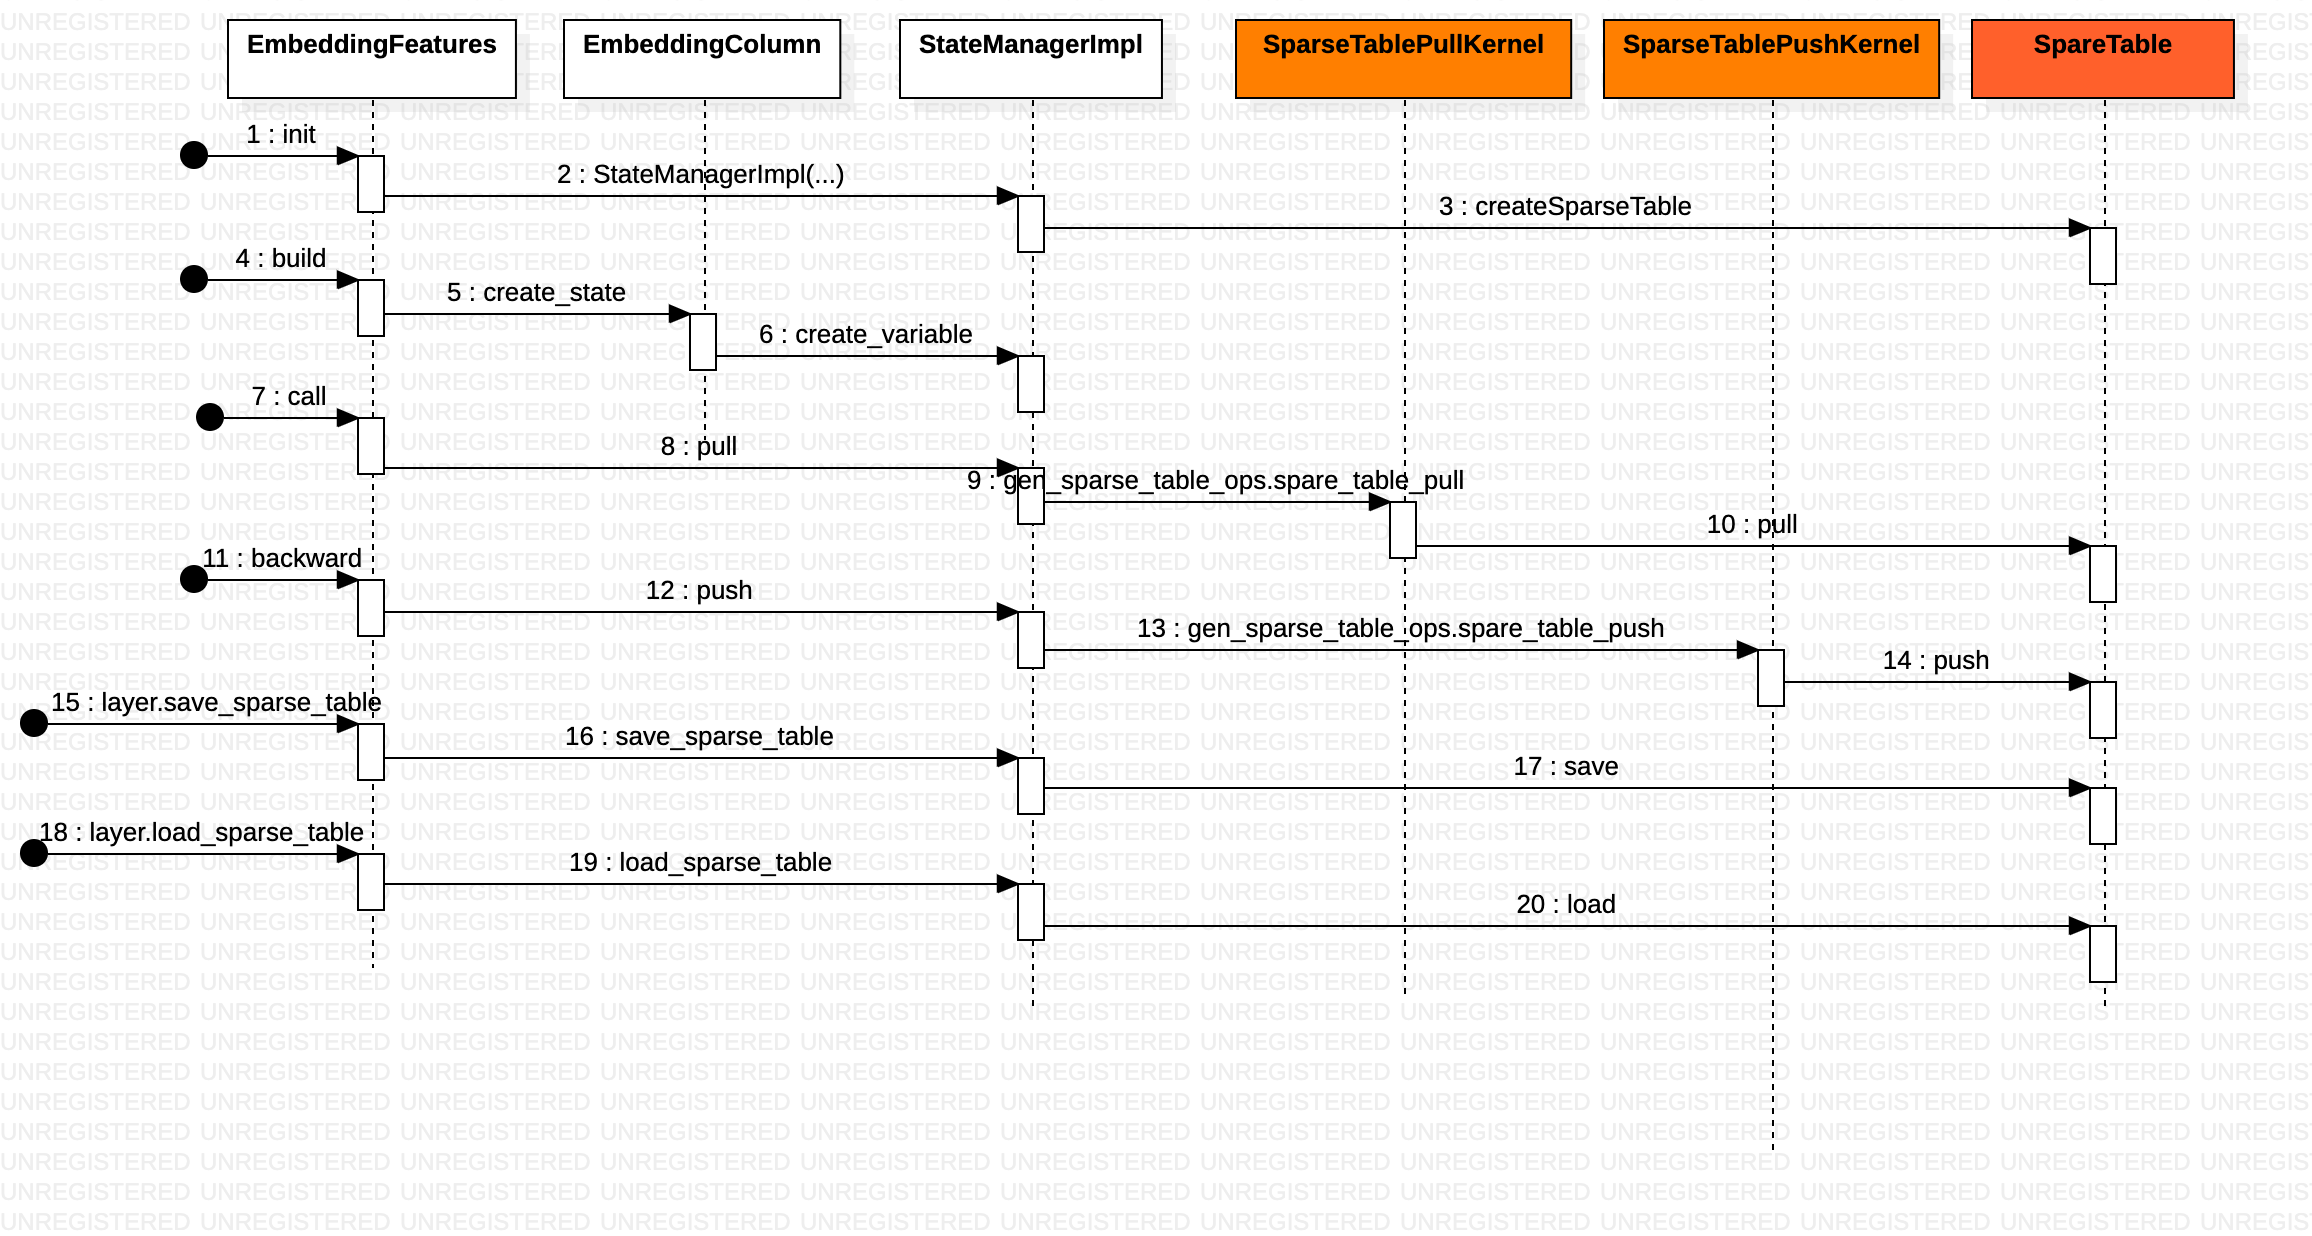
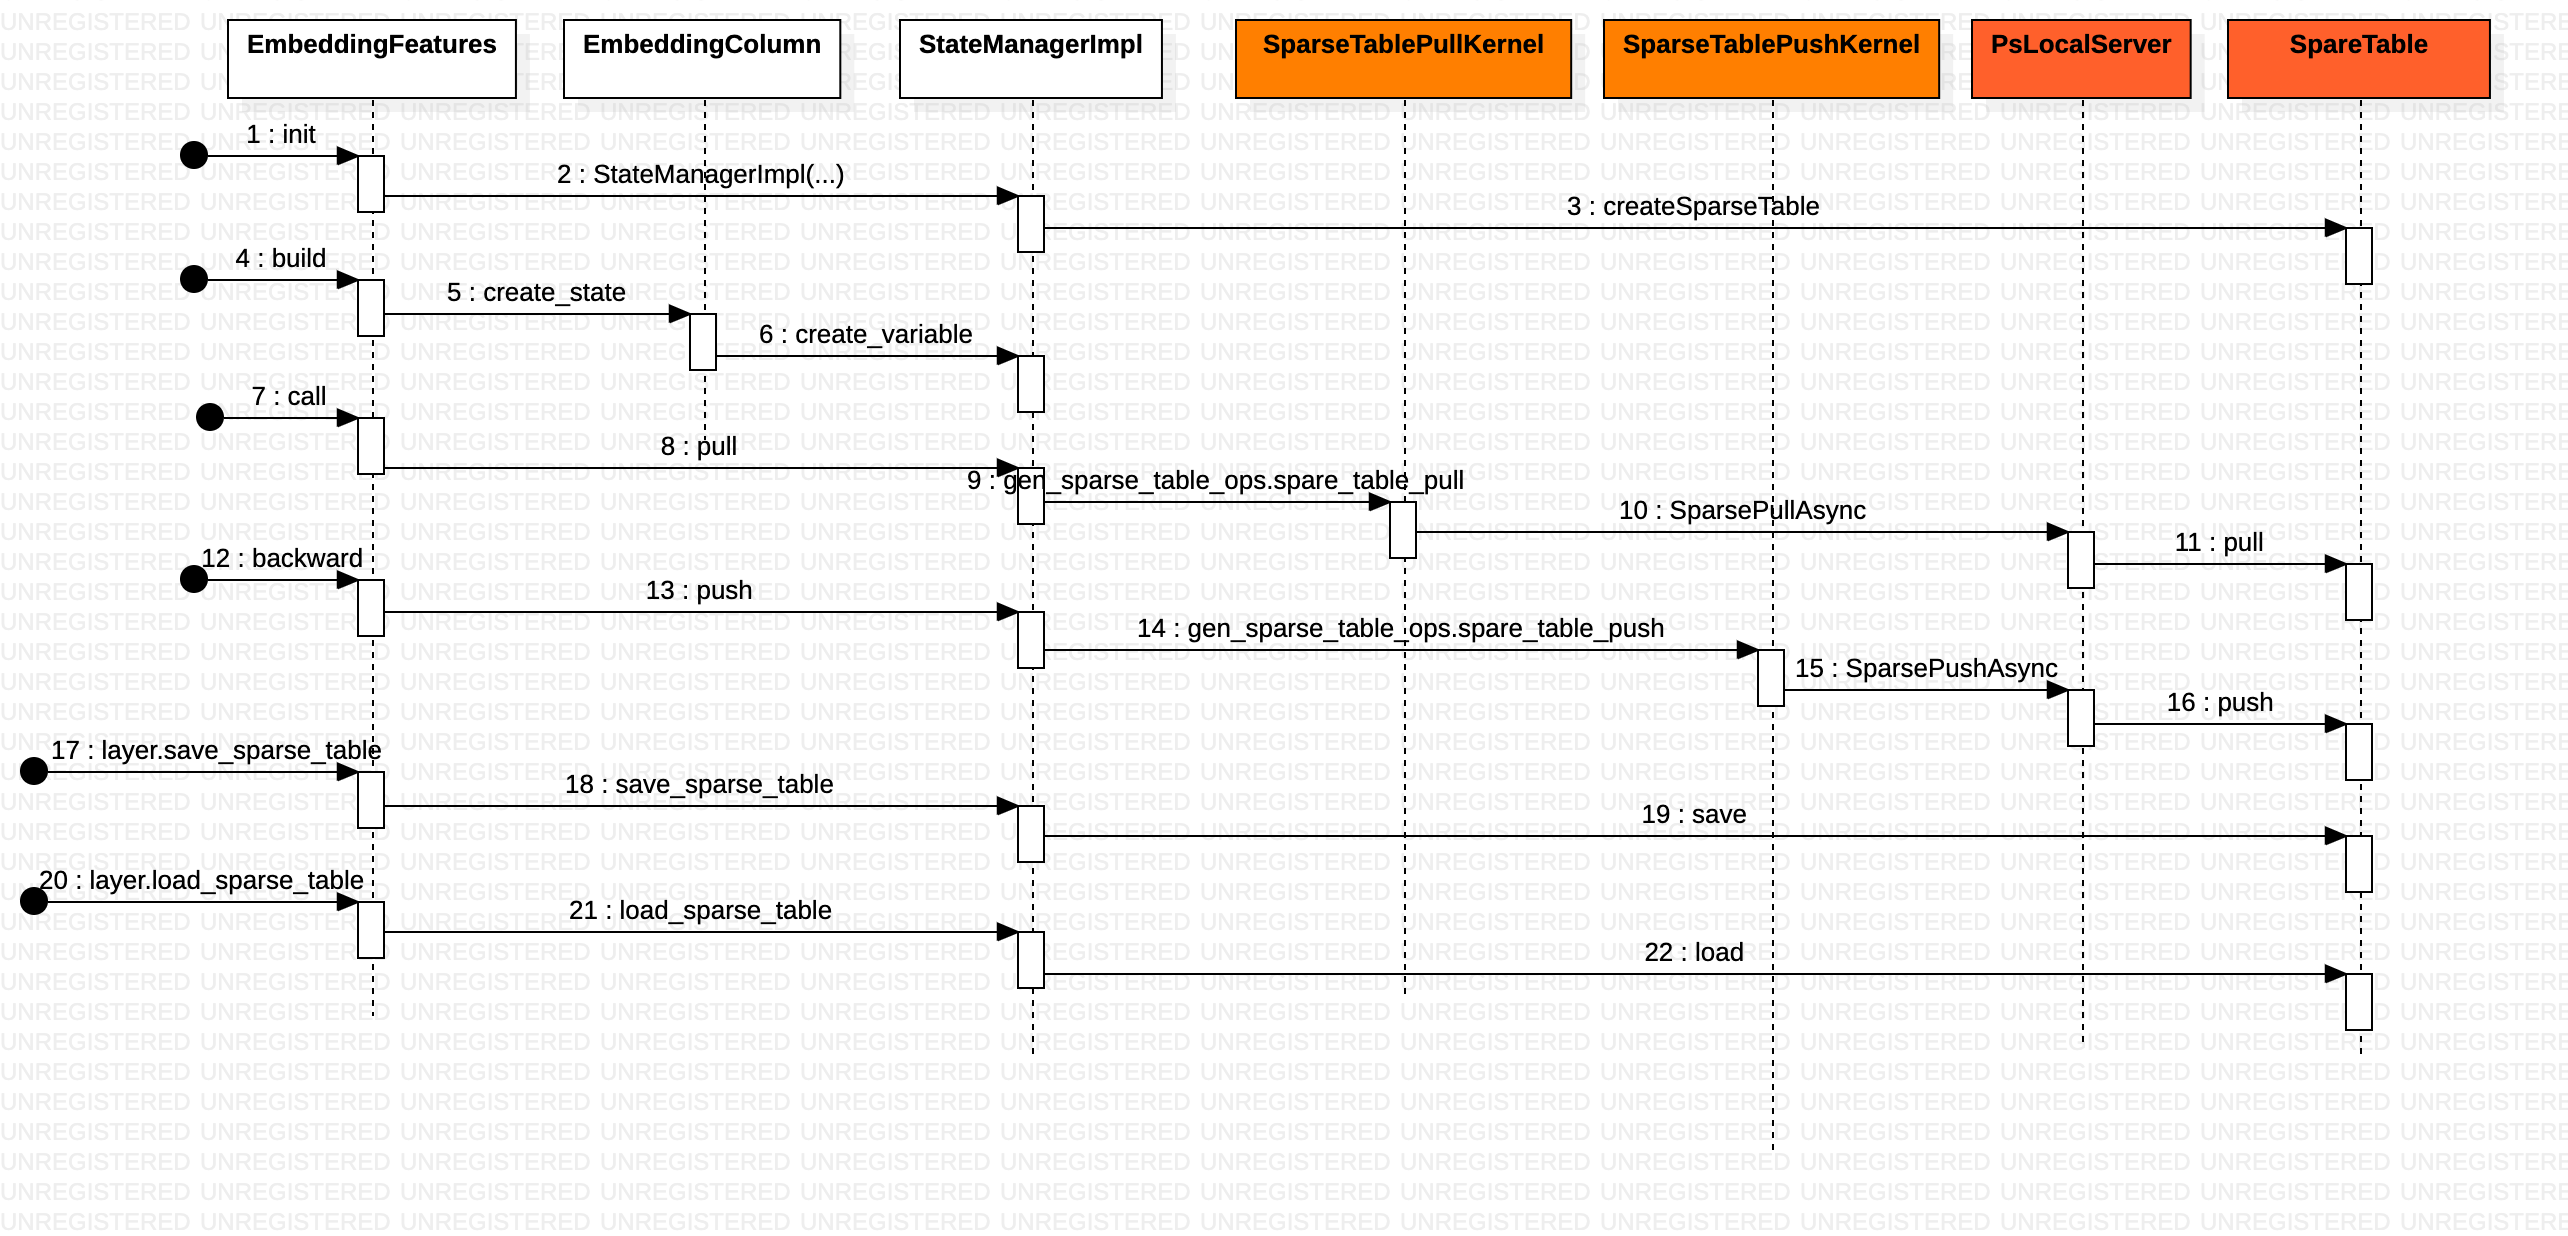
add doc

diff --git a/_posts/MachineLearning/2022-02-22-tensornet_source.md b/_posts/MachineLearning/2022-02-22-tensornet_source.md
@@ -24,6 +24,7 @@ keywords: tensornet
 2. 一种调用 自定义算子，由session.run 真正触发执行。 
 
 所以机器学习框架的执行，从编程语言角度看
+
 ![](/public/upload/machine/tensornet_python_c.png)
 ## Wide&Deep模型Demo
 
@@ -121,6 +122,14 @@ tensornet
         /kernels    // op kernel 实现
             /xx.cc
         /ops        // 为每个op kernel REGISTER_OP
+        /ps         // 从中可以观察一个ps 的构成
+            /optimizer          // 因为ps 是存储tf.Variable的，所以进行参数更新的优化器 自然也是 ps的一部分
+            /table              // 因为ps 是存储tf.Variable的，table 就是参数的存储结构，基于ml 特性优化的kv 存储
+            /ps_cluster.cc/ps_cluster.h
+            /ps_local_server.cc/ps_local_server.h
+            /ps_remote_server.cc/ps_remote_server.h
+            /ps_server_interface.h
+            /ps_service_impl.cc/ps_service_impl.h
         /BUILD      // 为每个op 生成so 及python wrapper
     tensornet       // python 部分
         /core       // op 对应的python wrapper，由 Bazel 生成
@@ -339,9 +348,11 @@ const PsServerInterface* PsCluster::GetServer(int shard_id) const {
 
 ### 底层存储
 
-SparseTable 底层 使用8个SparseKernelBlock，每个SparseKernelBlock 使用unordered_map 存储kv（ps就是一个kv嘛），key是id，value是一个封装的SparseXXValue结构体。
-1. SparseTable.Pull ==> SparseOptimizerKernel.GetWeight ==> SparseKernelBlock.GetWeight ==> SparseAdaGradValue.Weight
-2. SparseTable.Push ==> SparseOptimizerKernel.Apply ==> SparseKernelBlock.Apply ==> SparseAdaGradValue.Apply
+SparseTable 底层 使用8个SparseKernelBlock，每个SparseKernelBlock 使用unordered_map 存储kv（ps就是一个kv嘛），key是id，value是一个封装`float*`的SparseXXValue结构体。SparseKernelBlock 操作有mutex 保护，所以 SparseTable 弄8个SparseKernelBlock 的原因估计是 降低锁竞争。 
+1. PsLocalServer.pull ==> SparseTable.Pull ==> SparseOptimizerKernel.GetWeight ==> SparseKernelBlock.GetWeight ==> SparseAdaGradValue.Weight
+2. PsLocalServer.push ==> SparseTable.Push ==> SparseOptimizerKernel.Apply ==> SparseKernelBlock.Apply ==> SparseAdaGradValue.Apply
+
+
 
 ```c++
 // tensornet/core/ps/optimizer/optimizer_kernel.h
@@ -407,6 +418,83 @@ void SparseAdaGradValue::Apply(const AdaGrad* opt, SparseGradInfo& grad_info, in
     }
 }
 ```
+
+![](/public/upload/machine/tensornet_ps.png)
+
+从大的方面来说，DenseTable与SparseTable 类似，也有DenseOptimizerKernel、DenseKernelBlock 等概念，实际差异 DenseXXValue 和 SparseXXValue 上体现出来。以Adam为例（未完成）
+
+1. TensorNet将模型的所有dense参数合并后使用分布式数组切分到不同的机器上，每次pull和push参数的时候只有一次网络请求。相较于TensorFlow对每个tensor都有一次网络请求的方法极大的减少了网络请求的次数从而提升了模型训练的速度。
+2. TensorNet对sparse参数使用分布式哈希表按照哈希值均匀分布不同的节点上。这相较于TensorFlow需要让开发者根据自身情况将tensor分布在不同的ps节点上的方法更加灵活，这不仅减小了节点通信热点的概率，还减轻了开发者的工作量。
+
+```c++
+// tensornet/core/ps/optimizer/adam_kernel.h
+class DenseAdamValue {
+public:
+    void SetWeight(butil::IOBuf& w_buf);
+    const Eigen::ArrayXf& GetWeight() const {
+        return w_;
+    }
+    // tensornet/core/ps/optimizer/adam_kernel.cc
+    void Apply(const Adam* opt, const Eigen::ArrayXf& g) {
+        beta1_power_ *= opt->beta1;
+        beta2_power_ *= opt->beta2;
+
+        const float alpha = opt->learning_rate * Eigen::numext::sqrt(1.0 - beta2_power_) / (1.0 - beta1_power_);
+
+        m_ += (g - m_) * (1.0 - opt->beta1);
+        v_ += (g.square() - v_) * (1.0 - opt->beta2);
+        w_ -= (m_ * alpha) / (v_.sqrt() + opt->epsilon);
+    }
+private:
+    float beta1_power_ = 0;
+    float beta2_power_ = 0;
+    // ArrayXf  即 Array<float,Dynamic,1>  对应 Array<typename Scalar, int RowsAtCompileTime, int ColsAtCompileTime>
+    // Array类提供了更方便的元素级的操作，可以通过matrix() 转为Matrix，这种转换并不耗费运行时间（编译器优化了)
+    Eigen::ArrayXf w_;
+    Eigen::ArrayXf m_;
+    Eigen::ArrayXf v_;
+}
+class alignas(4) SparseAdamValue
+    : public SparseOptValue {
+public:
+    float* Weight() {
+        return data_;
+    }
+    const float* Weight() const {
+        return data_;
+    }
+    // tensornet/core/ps/optimizer/adam_kernel.cc
+    void Apply(const Adam* opt, SparseGradInfo& grad_info, int dim) {
+        delta_show_ += grad_info.batch_show;
+        
+        float* w = Weight();
+        float* m = M(dim);
+        float* v = V(dim);
+
+        for (int i = 0; i < dim; ++i) {
+            m[i] = opt->beta1 * m[i] + (1 - opt->beta1) * grad_info.grad[i];
+            v[i] = opt->beta2 * v[i] + (1 - opt->beta2) * grad_info.grad[i] * grad_info.grad[i];
+
+            w[i] -= opt->learning_rate * m[i] / (opt->epsilon + sqrt(v[i]));
+        }
+    }
+protected:
+    float* M(int dim) {
+        return data_ + dim * 1;
+    }
+    float* V(int dim) {
+        return data_ + dim * 2;
+    }
+private:
+    float data_[0];
+};
+// tensornet/core/ps/optimizer/data_struct.h
+struct SparseGradInfo {
+    float* grad;
+    int batch_show;
+};
+```
+
 ## tn.optimizer.Optimizer是如何实现梯度参数更新和自身参数存储的
 
 对Optimizer 的使用，可以看到 optimizer 主要是为了更新dense参数(全连接网络的参数)
@@ -498,4 +586,3 @@ class Model(tf.keras.Model):
 
 Model.backwards ==> layer/EmbeddingFeatures.backwards ==> StateManagerImpl.push ==> gen_sparse_table_ops.spare_table_push就到了OP 的逻辑了。
 
-![](/public/upload/machine/tensornet_ps.png)

diff --git a/_posts/MachineLearning/2022-03-02-embedding.md b/_posts/MachineLearning/2022-03-02-embedding.md
@@ -41,6 +41,8 @@ Embedding这块，spark MLlib 和 机器学习库 都提供了处理函数。利
 
 **在自然语言中，非端到端很常见**，因为学到一个好的的词向量表示，就能很好地挖掘出词之间的潜在关系，那么在其他语料训练集和自然语言任务中，也能很好地表征这些词的内在联系，预训练的方式得到的Embedding并不会对最终的任务和模型造成太大影响，但却能够「提高效率节省时间」，这也是预训练的一大好处。但是**在推荐场景下，根据不同目标构造出的序列不同，那么训练得到的Embedding挖掘出的关联信息也不同**。所以，「在推荐中要想用预训练的方式，必须保证Embedding的预训练和最终任务目标处于同一意义空间」，否则就会造成预训练得到Embedding的意义和最终目标完全不一致。比如做召回阶段的深度模型的目标是衡量两个商品之间的相似性，但是CTR做的是预测用户点击商品的概率，初始化一个不相关的 Embedding 会给模型带来更大的负担，更慢地收敛。
 
+在梯度下降这块对embedding weight也有针对性的优化算法，[从梯度下降到FTRL](https://zhuanlan.zhihu.com/p/144562494)FTRL是在广告/推荐领域会用到的优化方法，适用于对高维稀疏模型进行训练，获取稀疏解。
+
 ## 实践
 
 《深度学习推荐系统实战》为什么深度学习的结构特点不利于稀疏特征向量的处理呢？一方面，如果我们深入到神经网络的梯度下降学习过程就会发现，特征过于稀疏会导致整个网络的收敛非常慢，因为每一个样本的学习只有极少数的权重会得到更新，这在样本数量有限的情况下会导致模型不收敛。另一个方面，One-hot 类稀疏特征的维度往往非常地大，可能会达到千万甚至亿的级别，如果直接连接进入深度学习网络，那整个模型的参数数量会非常庞大。因此，我们往往会先通过 Embedding 把原始稀疏特征稠密化，然后再输入复杂的深度学习网络进行训练，这相当于把原始特征向量跟上层复杂深度学习网络做一个隔离。

diff --git a/_posts/MachineLearning/2021-08-18-ai_platform.md b/_posts/MachineLearning/2021-08-18-ai_platform.md
@@ -92,7 +92,7 @@ AI平台的定位：面向算法工程师，围绕AI 模型的全生命周期去
 
 深度学习平台的搭建，将遇到诸多挑战，主要体现在以下方面：
 
-1. 数据管理自动化。在深度学习的业务场景中，从业人员会花费大量的时间获取和转换建立模型需要的数据。数据处理过程中还将产生新的数据，这些数据不单单应用于本次训练，很可能用于后续推理过程。并且新 生成的数据不需要传给数据源，而是希望放置在新的存储空间。这需要基础平台提供可扩展的存储系统。
+1. 数据管理自动化。在深度学习的业务场景中，从业人员会花费大量的时间获取和转换建立模型需要的数据。数据处理过程中还将产生新的数据，这些数据不单单应用于本次训练，很可能用于后续推理过程。并且新 生成的数据不需要传给数据源，而是希望放置在新的存储空间。这需要基础平台提供可扩展的存储系统。PS： 手动命令行、页面、代码上传、下载，pod 随时可以访问，分布式训练任务多pod 之间也要共享一些临时的存储文件。
 2. 资源的有效利用。深度学习相关的应用是资源密集型，资源使用波动大，存在峰值和谷值。在应用开始运行的时候，快速获取计算资源；在应用结束后，回收不适用的计算资源对于资源利用率的提升相当重要。数据处理、模型训练和推理所使用的计算资源类型和资源占用时间有所不同，这就需要计算平台提供弹性的资源供应机制。
 3. 屏蔽底层技术的复杂性
 

diff --git a/_posts/Technology/Linux/2019-04-08-interest_linux_note.md b/_posts/Technology/Linux/2019-04-08-interest_linux_note.md
@@ -288,6 +288,18 @@ sysstus_t krlsvetabl_time(uint_t inr, stkparame_t *stkparv)
 }
 ```
 
+[Linux拦截系统调用](https://mp.weixin.qq.com/s/a8gLkVQ-RKLbveEZUJGeWA)说白了，系统调用其实就是函数调用，只不过调用的是内核态的函数。但与普通的函数调用不同，系统调用不能使用 call 指令来调用，而是需要使用 软中断 来调用。在 Linux 系统中，系统调用一般使用 int 0x80 指令（x86）或者 syscall 指令（x64）来调用。
+1. 在 Linux 内核中，使用 sys_call_table 数组来保存所有系统调用，sys_call_table 数组每一个元素代表着一个系统调用的入口
+2. 当应用程序需要调用一个系统调用时，首先需要将要调用的系统调用号（也就是系统调用所在 sys_call_table 数组的索引）放置到 eax 寄存器中，然后通过使用 int 0x80 指令触发调用 0x80 号软中断服务。
+3. 0x80 号软中断服务，会通过以下代码来调用系统调用。PS： 经了软中断一手，还是调用了call
+    ```
+    ...
+    call *sys_call_table(,%eax,8)
+    ...
+    ```
+    
+![](/public/upload/linux/linux_system_call.png)
+
 ## 输入输出
 
 ### cpu 如何和设备打交道

diff --git a/_posts/Technology/Go/2021-05-15-go_compiler.md b/_posts/Technology/Go/2021-05-15-go_compiler.md
@@ -112,7 +112,7 @@ func main() {
 
 [defer 的前世今生](https://mp.weixin.qq.com/s/jYVbA3kIp85J06BB1vT_iA)未读完
 
-1. 在函数返回、产生恐慌或者 runtime.Goexit 时被调用
+1. 在函数返回、产生恐慌或者 runtime.Goexit 时被调用。PS： 配对编程在文件、锁等场景很有必要，但全对的配对很难实现，要考虑异常等场景，在c++ 里“释放”动作经常要封装到 析构函数里
 2. 直觉上看， defer 应该由编译器直接将需要的函数调用插入到该调用的地方，似乎是一个编译期特性， 不应该存在运行时性能问题。但实际情况是，由于 defer 并没有与其依赖资源挂钩，也允许在条件、循环语句中出现，**无法在编译期决定存在多少个 defer 调用**。
 
 defer 使用的几个注意事项

diff --git a/_posts/Technology/Mesh/2021-09-11-learn_mesh.md b/_posts/Technology/Mesh/2021-09-11-learn_mesh.md
@@ -52,5 +52,3 @@ keywords: mosn detail
 3. 大规模工业化落地的平滑、稳定可控接入方案，涉及到大量对已有服务治理组件的兼容升级和改造
 4. 服务网格确实实现了业务逻辑和服务治理架构的解耦，解锁了很多新能力
 5. 服务网格结合可观测、故障止损、混沌工程，容量管理等场景化，才能发挥出最大价值
-
-
